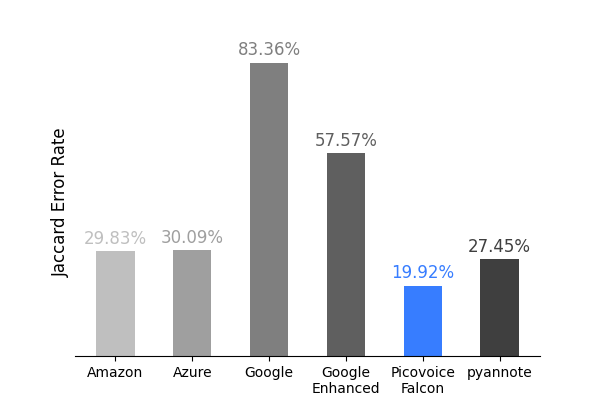
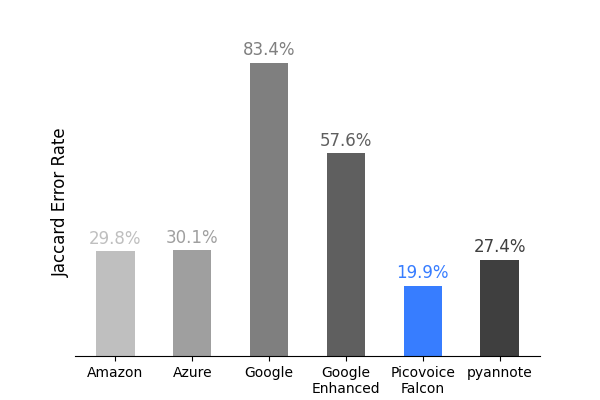
rev 1.7, cleaner tables-plots

diff --git a/plot_results.py b/plot_results.py
@@ -84,6 +84,7 @@ def _plot_accuracy(
                 results_json = json.load(f)
 
             engine_value = results_json[metric] * 100
+            engine_value = round(engine_value, 1)
             ax.bar(
                 ENGINE_PRINT_NAMES[engine_type],
                 engine_value,
@@ -95,7 +96,7 @@ def _plot_accuracy(
             ax.text(
                 ENGINE_PRINT_NAMES[engine_type],
                 engine_value + 1,
-                f"{engine_value:.2f}%",
+                f"{engine_value:.1f}%",
                 ha="center",
                 va="bottom",
                 fontsize=12,
@@ -139,6 +140,7 @@ def _plot_cpu(
     num_workers = dict()
     for engine_type, engine_value in engines_results_cpu.items():
         core_hour = engine_value["total_process_time_sec"] / engine_value["total_audio_time_sec"] * 100
+        core_hour = round(core_hour, 0)
         num_workers[engine_type] = engine_value["num_workers"]
         x_limit = max(x_limit, core_hour)
         ax.barh(
@@ -152,7 +154,7 @@ def _plot_cpu(
         ax.text(
             core_hour + 50,
             ENGINE_PRINT_NAMES[engine_type],
-            f"{core_hour:.2f}\nCore-hour",
+            f"{core_hour:.0f}\nCore-hour",
             ha="center",
             va="center",
             fontsize=12,
@@ -200,6 +202,7 @@ def _plot_mem(
     fig, ax = plt.subplots(figsize=(6, 4))
     for engine_type, engine_value in engines_results_mem.items():
         max_mem_usage = engine_value["max_mem_GiB"] / num_workers[engine_type]
+        max_mem_usage = round(max_mem_usage, 1)
         ax.barh(
             ENGINE_PRINT_NAMES[engine_type],
             max_mem_usage,
@@ -211,7 +214,7 @@ def _plot_mem(
         ax.text(
             max_mem_usage + 0.15,
             ENGINE_PRINT_NAMES[engine_type],
-            f"{max_mem_usage:.2f}GiB",
+            f"{max_mem_usage:.1f}GiB",
             ha="center",
             va="center",
             fontsize=12,

diff --git a/README.md b/README.md
@@ -50,7 +50,7 @@ It presents the total memory utilized, measured in gigabytes (GB).
 ### Core-Hour
 
 The Core-Hour metric is used to evaluate the computational efficiency of the diarization engine, indicating the number
-of hours required to process one hour of audio on a single CPU core. 
+of hours required to process one hour of audio on a single CPU core.
 
 > [!NOTE]
 > `Total Memory Usage` and `Core-Hour` metrics are not applicable to cloud-based engines.
@@ -195,12 +195,12 @@ RAM, and NVMe storage.
 
 |      Engine       | VoxConverse (English) |
 |:-----------------:|:---------------------:|
-|      Amazon       |        11.05%         |
-|       Azure       |        15.69%         |
-|      Google       |        50.16%         |
-| Google - Enhanced |        23.98%         |
-| Picovoice Falcon  |        10.34%         |
-|  pyannote.audio   |         8.95%         |
+|      Amazon       |         11.1%         |
+|       Azure       |         15.7%         |
+|      Google       |         50.2%         |
+| Google - Enhanced |         24.0%         |
+| Picovoice Falcon  |         10.3%         |
+|  pyannote.audio   |         9.0%          |
 
 ![](./results/plots/VoxConverse/diarization_error_rate.png)
 
@@ -208,12 +208,12 @@ RAM, and NVMe storage.
 
 |      Engine       | VoxConverse (English) |
 |:-----------------:|:---------------------:|
-|      Amazon       |        29.83%         |
-|       Azure       |        30.09%         | 
-|      Google       |        83.36%         |
-| Google - Enhanced |        57.57%         |
-| Picovoice Falcon  |        19.92%         |
-|  pyannote.audio   |        27.45%         |
+|      Amazon       |         29.8%         |
+|       Azure       |         30.1%         | 
+|      Google       |         83.4%         |
+| Google - Enhanced |         57.6%         |
+| Picovoice Falcon  |         19.9%         |
+|  pyannote.audio   |         27.4%         |
 
 ![](./results/plots/VoxConverse/jaccard_error_rate.png)
 
@@ -221,8 +221,8 @@ RAM, and NVMe storage.
 
 |      Engine      | Memory Usage (GB) |
 |:----------------:|:-----------------:|
-|  pyannote.audio  |       1.52        |
-| Picovoice Falcon |       0.13        |
+|  pyannote.audio  |        1.5        |
+| Picovoice Falcon |        0.1        |
 
 ![](./results/plots/mem_usage_comparison.png)
 
@@ -230,7 +230,7 @@ RAM, and NVMe storage.
 
 |      Engine      | Core-Hour |
 |:----------------:|:---------:|
-|  pyannote.audio  |  441.85   |
-| Picovoice Falcon |   3.92    |
+|  pyannote.audio  |    442    |
+| Picovoice Falcon |     4     |
 
 ![](./results/plots/cpu_usage_comparison.png)
